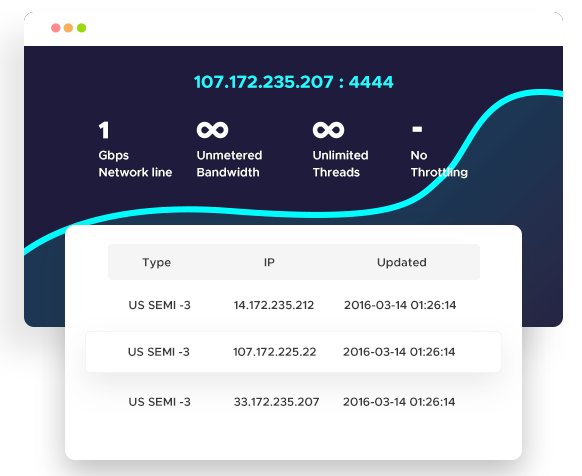
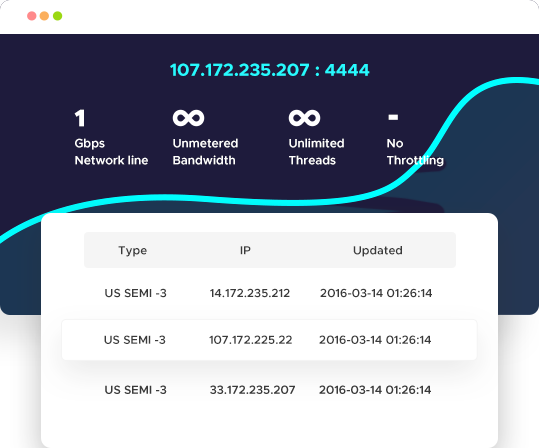
home pop img

diff --git a/app/css/style.css b/app/css/style.css
@@ -72,37 +72,6 @@ h6 {
   .top-navigation .navbar-nav li {
     margin-right: 35px; }
 
-.navbar-custom {
-  padding: 20px 0;
-  font-size: 20px; }
-  .navbar-custom a.navbar-brand {
-    color: white;
-    font-size: 34px;
-    font-family: "Courgette", sans-serif;
-    -webkit-animation-name: pulse;
-    -moz-animation-name: pulse;
-    -webkit-animation-duration: 1.5s;
-    -moz-animation-duration: 1.5s;
-    -webkit-animation-iteration-count: infinite;
-    -moz-animation-iteration-count: infinite;
-    -webkit-animation-timing-function: linear;
-    -moz-animation-timing-function: linear; }
-  .navbar-custom .nav-custom ul li {
-    display: inline-block; }
-  .navbar-custom .nav-custom ul a {
-    color: white;
-    -webkit-transition: .5s all ease-out;
-    -moz-transition: .5s all ease-out;
-    transition: .5s all ease-out; }
-  .navbar-custom .nav-custom ul li.active a {
-    border-bottom: 3px solid black;
-    color: black; }
-  .navbar-custom .nav-custom ul a:hover {
-    color: black; }
-  .navbar-custom .nav-custom .navbar-header .navbar-toggle {
-    padding: 4px 20px;
-    color: white; }
-
 .top-nav-collapse {
   padding: 5px;
   background-color: #ff1719;
@@ -122,7 +91,7 @@ h6 {
   -webkit-background-size: cover;
   background-size: cover;
   color: white;
-  padding: 200px 0; }
+  padding: 255px 0; }
   .home-section .home-title {
     font-weight: bold;
     font-size: 80px; }
@@ -137,11 +106,10 @@ h6 {
     -moz-border-radius: 50px;
     border-radius: 50px; }
   .home-section .home-img {
+    margin-top: 220px;
+    max-width: 1000px;
     width: 100%;
-    height: auto;
-    position: absolute;
-    left: 0%;
-    right: 0; }
+    height: auto; }
 
 .compare-section {
   color: white;
@@ -238,20 +206,21 @@ h6 {
     .location-section .country-location .item-header {
       color: white;
       font-family: MetropolisExtraBold, sans-serif;
-      padding: 20px 30px;
+      padding: 10px 25px;
       border-top-left-radius: 4px;
       border-top-right-radius: 5px;
       background-color: #75d701; }
     .location-section .country-location .item-sub-header {
       font-family: MetropolisBold, sans-serif;
-      padding: 20px 30px;
+      padding: 10px 25px;
       background-color: #56a902;
       color: white; }
     .location-section .country-location .item-body {
-      padding: 30px; }
+      padding: 25px; }
       .location-section .country-location .item-body h5 {
         font-family: MetropolisBold, sans-serif;
-        margin-bottom: 10px; }
+        margin-bottom: 10px;
+        font-size: 15px; }
       .location-section .country-location .item-body h6 {
         font-family: MetropolisRegular, sans-serif;
         font-size: 10px;

diff --git a/app/scss/style.scss b/app/scss/style.scss
@@ -50,60 +50,6 @@ h6 {
   }
 }
 
-.navbar-custom {
-
-  padding: 20px 0;
-  font-size: 20px;
-
-  a.navbar-brand {
-    color: white;
-    font-size: 34px;
-    font-family: "Courgette", sans-serif;
-
-    -webkit-animation-name: pulse;
-    -moz-animation-name: pulse;
-    -webkit-animation-duration: 1.5s;
-    -moz-animation-duration: 1.5s;
-    -webkit-animation-iteration-count: infinite;
-    -moz-animation-iteration-count: infinite;
-    -webkit-animation-timing-function: linear;
-    -moz-animation-timing-function: linear;
-
-  }
-
-  .nav-custom {
-
-    ul {
-
-      li{
-        display: inline-block;
-      }
-      a {
-        color: white;
-
-        -webkit-transition: .5s all ease-out;
-        -moz-transition: .5s all ease-out;
-        transition: .5s all ease-out;
-      }
-
-      li.active a {
-        border-bottom: 3px solid black;
-        color: black;
-      }
-
-      a:hover {
-        color: black;
-      }
-    }
-
-    .navbar-header .navbar-toggle {
-      padding: 4px 20px;
-      color: white;
-    }
-
-  }
-}
-
 .top-nav-collapse {
   padding: 5px;
   background-color: #ff1719;
@@ -143,7 +89,7 @@ h6 {
   background-size: cover;
   color: white;
 
-  padding: 200px 0;
+  padding: 255px 0;
 
   .home-title{
     font-weight: bold;
@@ -167,8 +113,8 @@ h6 {
   }
 
   .home-img{
-    margin-top: 50px;
-    max-width: 900px;
+    margin-top: 220px;
+    max-width: 1000px;
     width: 100%;
     height: auto;
   }
